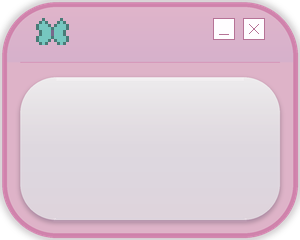
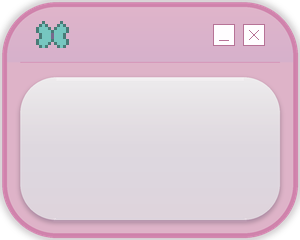
Pixel Daydream: vertically centre title-bar butterfly + buttons
Nudged the butterfly and minimize/close icons down a couple of pixels so they
sit in the vertical middle of the bubble's title bar.

Claude-Session: https://claude.ai/code/session_0131KihTAuQeJCaUMiKQDazA

diff --git a/themes/pixel-daydream/scripts/generate_images.py b/themes/pixel-daydream/scripts/generate_images.py
@@ -400,16 +400,16 @@ def _overlay_widgets(img, scale, b):
     """Crisp pixel butterfly + minimize/close buttons, inset from the edges so
     they sit safely inside the 30px corner cap and never get cropped."""
     d = ImageDraw.Draw(img)
-    # pixel butterfly, inset from the LEFT inside the title bar
+    # pixel butterfly, inset from the LEFT, vertically centred in the title bar
     draw_pixels(d, BUTTERFLY, pal_butterfly(b.wing, darken(b.wing, 0.62)),
-                12 * scale, 6 * scale, scale)
-    # minimize + close buttons, inset from the RIGHT
+                12 * scale, 7 * scale, scale)
+    # minimize + close buttons, inset from the RIGHT, centred in the title bar
     edge = darken(b.border, 0.88)
     bfill = (255, 253, 255, 240)
     size = 7
     for i, kind in enumerate(("min", "close")):
         x = (71 + i * 10) * scale
-        y = 6 * scale
+        y = 8 * scale
         x1, y1 = x + size * scale, y + size * scale
         d.rectangle([x, y, x1, y1], fill=bfill, outline=edge, width=max(1, scale // 2))
         if kind == "min":
